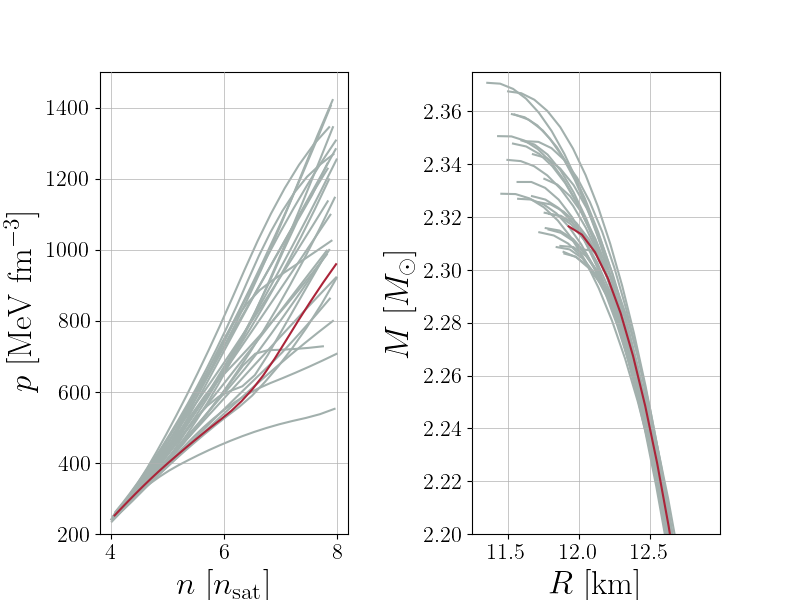
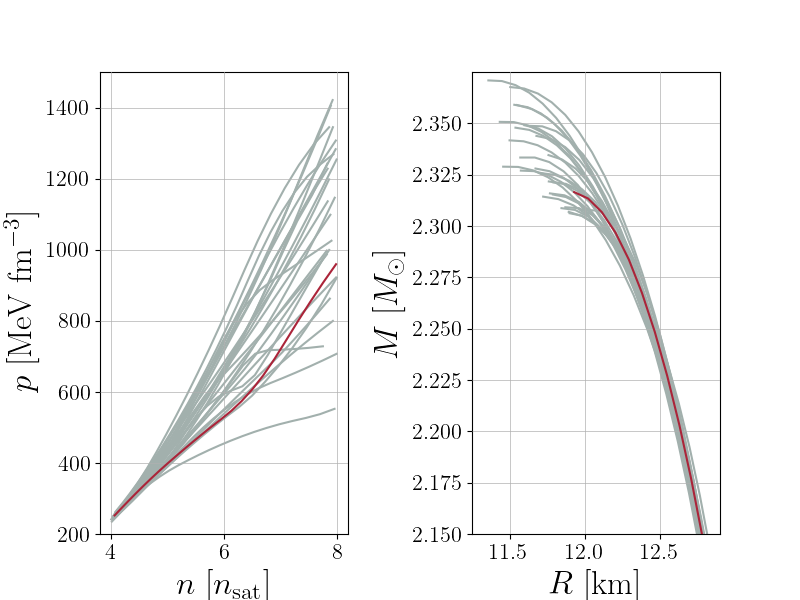
Working on campaign and NS plots, going to make it one plot now

diff --git a/src/paper_jose/postprocessing/plots_doppelgangers.py b/src/paper_jose/postprocessing/plots_doppelgangers.py
@@ -480,6 +480,8 @@ def plot_campaign_results(outdirs_list: list[str],
                "radii_EOS": [],
                "Lambdas_EOS": [],
                
+               "pc_EOS": [],
+               
                "R1.4": [],
                "Lambda1.4": [],
                
@@ -568,6 +570,9 @@ def plot_campaign_results(outdirs_list: list[str],
             
             # Get n_TOV and p_TOV
             p_c_array = jnp.exp(data["logpc_EOS"]) / jose_utils.MeV_fm_inv3_to_geometric
+            results["pc_EOS"].append(p_c_array)
+            
+            # Get it at TOV, so maximal, limit
             p_c = p_c_array[-1]
             n_TOV = float(get_n_TOV(n, p, p_c))
             p_TOV = float(np.interp(n_TOV, n, p))
@@ -579,29 +584,6 @@ def plot_campaign_results(outdirs_list: list[str],
             results["n_TOV"].append(n_TOV)
             results["p_TOV"].append(p_TOV)
             results["p_5nsat"].append(p_5nsat)
-            
-    # print(f"Here are the n_TOV values")
-    # print(results["n_TOV"])
-    # print("Min and max:")
-    # print(np.min(results["n_TOV"]), np.max(results["n_TOV"]))
-    
-    # print(f"Here are the p_TOV values")
-    # print(results["p_TOV"])
-    # print("Min and max:")
-    # print(np.min(results["p_TOV"]), np.max(results["p_TOV"]))
-    
-    # print(f"Here are the p_5nsat values")
-    # print(results["p_5nsat"])
-    # print("Min and max:")
-    # print(np.min(results["p_5nsat"]), np.max(results["p_5nsat"]))
-    
-    # Make a quick scatterplot of MTOV vs 5 nsat for myself:
-    plt.figure(figsize = (6, 6))
-    plt.scatter(results["MTOV"], results["p_5nsat"], color = "black")
-    plt.xlabel(r"$M_{\rm{TOV}}$")
-    plt.ylabel(r"$p_{5n_{\rm{sat}}}$")
-    plt.savefig("./figures/final_doppelgangers/MTOV_vs_p5nsat.png")
-    plt.close()
     
     # Compute the correlation coefficient:
     corr = np.corrcoef(results["MTOV"], results["p_5nsat"])[0, 1]
@@ -665,7 +647,7 @@ def plot_campaign_results(outdirs_list: list[str],
     TRUE_COLOR = "#AB2439"
     DOPPELGANGER_COLOR = "#A2B0AD"
     
-    fig, axes = plt.subplots(nrows = 1, ncols = len(param_labels), figsize=(len(param_labels) * 1.5, 6))
+    fig, axes = plt.subplots(nrows = 1, ncols = len(param_labels), figsize=(len(param_labels) * 2, 6))
     for i, (key, label) in enumerate(zip(all_keys, param_labels)):
         # Select the subplot
         ax = axes[i]
@@ -807,21 +789,38 @@ def plot_campaign_results(outdirs_list: list[str],
     fig, axs = plt.subplots(nrows = 1, ncols = 2, figsize=(8, 6))
     nmax = 8.0
     nmin = 4.0
-    m_min = 2.2
+    m_min = 2.15
+    r_max = 12.9
+    
     
     # Pressure as a function of density
     plt.subplot(1, 2, 1)
+    lower_masses_pc = []
     mask = (n_target > nmin) * (n_target < nmax)
     plt.plot(n_target[mask], p_target[mask], color = TRUE_COLOR, label = "Target", zorder = 1e10)
     for i in range(len(results["n"])):
         _n, _p = results["n"][i], results["p"][i]
         mask = (_n > nmin) * (_n < nmax)
         _n, _p = _n[mask], _p[mask]
+        
+        # Show at which p_c values the masses are:
+        _p_c = results["pc_EOS"][i][1:]
+        
+        min_p_c = 200.0
+        
+        idx = np.where(_p_c > min_p_c, True, False)
+        m_at_idx = results["masses_EOS"][i][1:][idx]
+        lower_masses_pc.append(np.min(m_at_idx))
+        
         plt.plot(_n, _p, color = DOPPELGANGER_COLOR)
     plt.xlabel(r"$n$ [$n_{\rm{sat}}$]")
     plt.ylabel(r"$p$ [MeV fm${}^{-3}$]")
     # plt.yscale("log")
     plt.ylim(bottom = 200, top = 1.5e3)
+    
+    print("lower_masses_pc")
+    print(np.array(lower_masses_pc).flatten())
+    
         
     plt.subplot(1, 2, 2)
     mask = m_target > 0.75 * m_min
@@ -834,7 +833,7 @@ def plot_campaign_results(outdirs_list: list[str],
     plt.ylim(bottom = m_min)
     plt.xlabel(r"$R$ [km]")
     plt.ylabel(r"$M$ [$M_\odot$]")
-    plt.xlim(right = 12.99)
+    plt.xlim(right = r_max)
     plt.ylim(top = 2.3749)
     plt.subplots_adjust(wspace=0.5)
     
